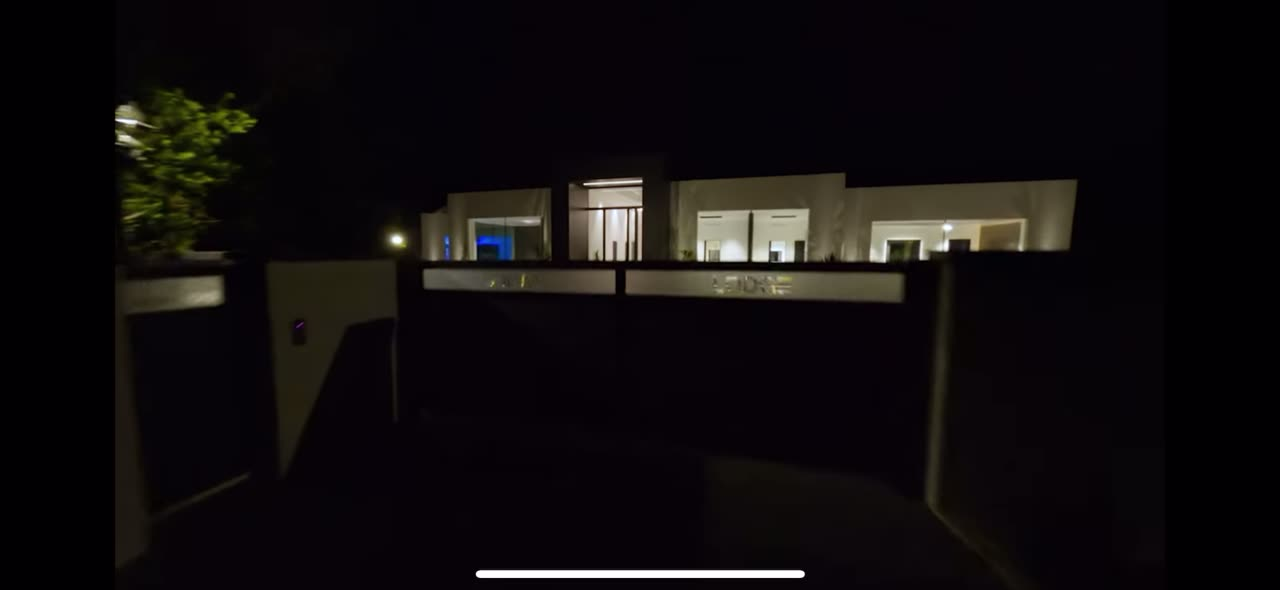
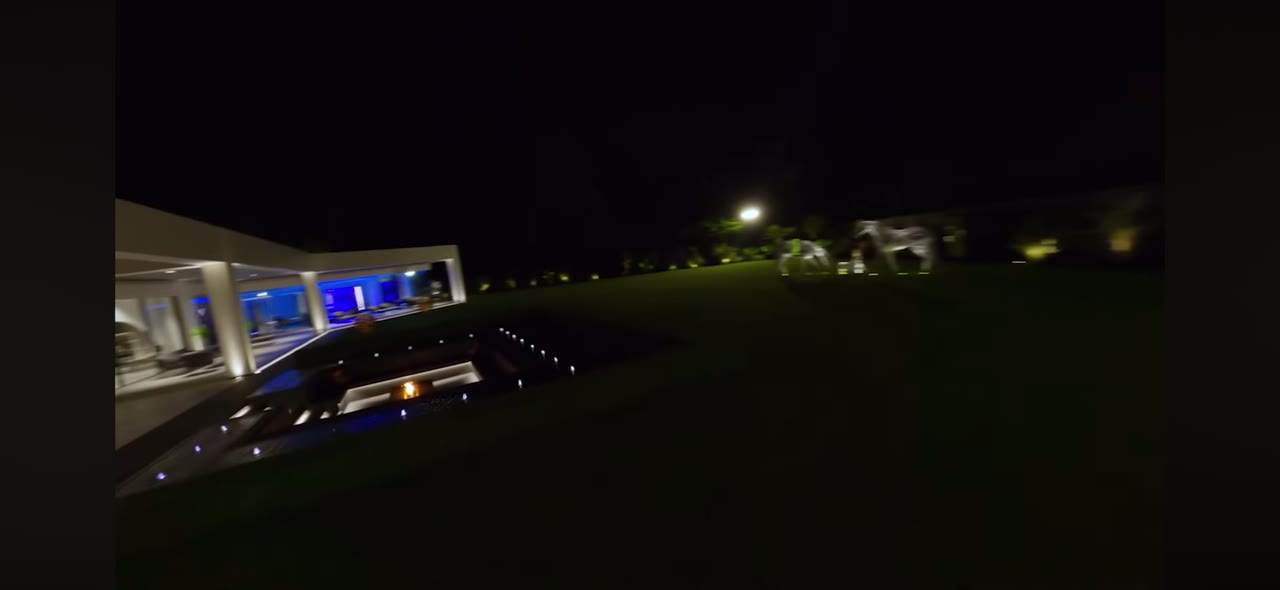
Two full immersive listing sites (Estate mansion + Skyline) with drone hero -> listings/firm/agent/neighborhood/contact; fix mansion poster; RE-tab showcase section

Changed region(s): [[0.0625, 0.1525, 0.9062, 0.8237], [0.375, 0.9458, 0.625, 1.0], [0.7188, 0.5797, 0.75, 0.8847]]

diff --git a/src/components/experience/ExperienceSite.tsx b/src/components/experience/ExperienceSite.tsx
@@ -1,0 +1,112 @@
+import Link from "next/link";
+import type { ExperienceConfig } from "@/content/experiences";
+import { Container } from "@/components/ui/Container";
+import { SectionLabel } from "@/components/ui/SectionLabel";
+import { Reveal } from "@/components/ui/Reveal";
+
+/**
+ * The "rest of the website" that continues below the cinematic drone hero,
+ * turning each experience into a full realtor site (listings, firm, agent,
+ * neighborhood, contact). Dark luxe theme to match the experience.
+ */
+export function ExperienceSite({ config }: { config: ExperienceConfig }) {
+  const s = config.site;
+
+  return (
+    <div className="relative z-10 bg-[#0b0b0e] text-white">
+      {/* Listings */}
+      <section className="border-t border-white/10 py-20 sm:py-28">
+        <Container>
+          <SectionLabel>{s.listingsEyebrow}</SectionLabel>
+          <h2 className="mt-6 max-w-[20ch] text-balance" style={{ fontSize: "var(--text-2xl)" }}>
+            {s.listingsTitle}
+          </h2>
+          <div className="mt-12 grid gap-6 md:grid-cols-3">
+            {s.listings.map((l, i) => (
+              <Reveal key={l.title} delay={i * 70}>
+                <div className="group overflow-hidden rounded-2xl border border-white/10 bg-white/[0.03]">
+                  <div className="aspect-[4/3] overflow-hidden">
+                    {/* eslint-disable-next-line @next/next/no-img-element */}
+                    <img
+                      src={l.img}
+                      alt={l.title}
+                      className="h-full w-full object-cover transition-transform duration-700 group-hover:scale-105"
+                    />
+                  </div>
+                  <div className="p-5">
+                    <div className="font-display text-xl font-semibold">{l.price}</div>
+                    <div className="mt-1 text-sm text-white/80">{l.title}</div>
+                    <div className="mt-2 text-xs uppercase tracking-wider text-white/50">{l.meta}</div>
+                  </div>
+                </div>
+              </Reveal>
+            ))}
+          </div>
+        </Container>
+      </section>
+
+      {/* The firm / agent */}
+      <section className="border-t border-white/10 py-20 sm:py-28">
+        <Container>
+          <div className="grid items-center gap-12 lg:grid-cols-2 lg:gap-16">
+            <Reveal>
+              <div className="overflow-hidden rounded-2xl border border-white/10">
+                {/* eslint-disable-next-line @next/next/no-img-element */}
+                <img src={s.agentImg} alt={s.agentName} className="aspect-[4/3] w-full object-cover" />
+              </div>
+            </Reveal>
+            <Reveal delay={100}>
+              <SectionLabel>{s.aboutEyebrow}</SectionLabel>
+              <h2 className="mt-6 max-w-[16ch] text-balance" style={{ fontSize: "var(--text-xl)" }}>
+                {s.aboutTitle}
+              </h2>
+              <p className="mt-5 max-w-md text-white/70">{s.aboutBody}</p>
+              <div className="mt-7 border-t border-white/10 pt-5">
+                <div className="font-display text-lg font-semibold">{s.agentName}</div>
+                <div className="mt-1 text-sm text-white/55">{s.agentTitle}</div>
+              </div>
+            </Reveal>
+          </div>
+        </Container>
+      </section>
+
+      {/* Neighborhood */}
+      <section
+        className="relative border-t border-white/10 py-28 sm:py-36"
+        style={{
+          backgroundImage: `linear-gradient(180deg, rgba(11,11,14,0.55), rgba(11,11,14,0.85)), url('${s.neighborhoodImg}')`,
+          backgroundSize: "cover",
+          backgroundPosition: "center",
+        }}
+      >
+        <Container>
+          <SectionLabel>The location</SectionLabel>
+          <h2 className="mt-6 max-w-[16ch] text-balance" style={{ fontSize: "var(--text-2xl)" }}>
+            {s.neighborhoodTitle}
+          </h2>
+          <p className="mt-5 max-w-lg text-white/80">{s.neighborhoodBody}</p>
+        </Container>
+      </section>
+
+      {/* Contact CTA */}
+      <section className="border-t border-white/10 py-24 text-center sm:py-32">
+        <Container>
+          <SectionLabel>{s.brand}</SectionLabel>
+          <h2 className="mx-auto mt-6 max-w-[18ch] text-balance" style={{ fontSize: "var(--text-2xl)" }}>
+            {s.contactTitle}
+          </h2>
+          <p className="mx-auto mt-5 max-w-xl text-white/70">{s.contactBody}</p>
+          <Link
+            href={config.ctaHref}
+            className="mt-10 inline-flex items-center gap-2 rounded-full bg-accent px-8 py-4 text-sm font-medium text-white transition-transform hover:-translate-y-0.5"
+          >
+            {config.ctaLabel}
+          </Link>
+          <p className="mt-8 text-xs uppercase tracking-[0.25em] text-white/35">
+            A custom build by Pilk.ai
+          </p>
+        </Container>
+      </section>
+    </div>
+  );
+}

diff --git a/src/content/experiences.ts b/src/content/experiences.ts
@@ -9,6 +9,27 @@ export type ExpScene = {
   cta?: boolean;
 };
 
+export type ExpListing = { title: string; price: string; meta: string; img: string };
+
+export type ExpSite = {
+  brand: string;
+  tagline: string;
+  listingsEyebrow: string;
+  listingsTitle: string;
+  listings: ExpListing[];
+  aboutEyebrow: string;
+  aboutTitle: string;
+  aboutBody: string;
+  agentName: string;
+  agentTitle: string;
+  agentImg: string;
+  neighborhoodTitle: string;
+  neighborhoodBody: string;
+  neighborhoodImg: string;
+  contactTitle: string;
+  contactBody: string;
+};
+
 export type ExperienceConfig = {
   slug: string;
   label: string;
@@ -21,6 +42,7 @@ export type ExperienceConfig = {
   ctaHref: string;
   ctaLabel: string;
   scenes: ExpScene[];
+  site: ExpSite;
 };
 
 export const experiences: Record<string, ExperienceConfig> = {
@@ -42,8 +64,30 @@ export const experiences: Record<string, ExperienceConfig> = {
       { at: 0.48, align: "right", eyebrow: "Features", title: "Infinity pool. Private dock. 180° water.", body: "Floor-to-ceiling glass and resort-grade finishes throughout." },
       { at: 0.62, align: "left", eyebrow: "Your agent", title: "Alexandra Reyes", body: "Luxury specialist with $1.2B+ in career sales — your private guide from first showing to closing." },
       { at: 0.76, align: "right", eyebrow: "The firm", title: "Meridian Estates", body: "Boutique representation, global reach — the name the market's finest listings trust." },
-      { at: 0.9, align: "center", eyebrow: "Offered at $24,500,000", title: "Schedule a private showing.", cta: true },
+      { at: 0.9, align: "center", eyebrow: "Offered at $24,500,000", title: "Keep scrolling to explore the listing.", cta: false },
     ],
+    site: {
+      brand: "Meridian Estates",
+      tagline: "Boutique luxury representation — by private appointment.",
+      listingsEyebrow: "Featured listings",
+      listingsTitle: "A private collection of waterfront estates.",
+      listings: [
+        { title: "20 Bayshore Terrace", price: "$24,500,000", meta: "6 BD · 8 BA · 11,400 SF", img: "/experience/frames/frame-030.jpg" },
+        { title: "The Glass House", price: "$18,900,000", meta: "5 BD · 6 BA · 8,900 SF", img: "/experience/frames/frame-075.jpg" },
+        { title: "Cascade Estate", price: "$31,000,000", meta: "7 BD · 9 BA · 14,200 SF", img: "/experience/frames/frame-120.jpg" },
+      ],
+      aboutEyebrow: "The firm",
+      aboutTitle: "Quietly, the most trusted name in luxury.",
+      aboutBody: "Meridian Estates represents a curated portfolio of the market's most exceptional homes. Discreet, relationship-driven, and relentless on results — we sell the feeling of a property, not just its square footage.",
+      agentName: "Alexandra Reyes",
+      agentTitle: "Founder · Luxury Specialist · $1.2B+ sold",
+      agentImg: "/experience/frames/frame-095.jpg",
+      neighborhoodTitle: "Moments from the marina.",
+      neighborhoodBody: "Minutes to downtown, the best dining, and the water. A world away from everything else.",
+      neighborhoodImg: "/experience/frames/frame-140.jpg",
+      contactTitle: "Arrange a private showing.",
+      contactBody: "Tell us about what you're looking for and we'll arrange a private, no-pressure tour.",
+    },
   },
   skyline: {
     slug: "skyline",
@@ -63,8 +107,30 @@ export const experiences: Record<string, ExperienceConfig> = {
       { at: 0.52, align: "right", eyebrow: "Amenities", title: "A private club, forty floors up.", body: "Sky lounge, spa, pool deck, and residents-only dining." },
       { at: 0.68, align: "left", eyebrow: "The location", title: "The center of everything.", body: "Steps from the waterfront, the best dining, and the business district." },
       { at: 0.82, align: "right", eyebrow: "Represented by", title: "Meridian Residences", body: "Private sales gallery — by appointment only." },
-      { at: 0.93, align: "center", eyebrow: "From $3,900,000", title: "Reserve a private tour.", cta: true },
+      { at: 0.93, align: "center", eyebrow: "From $3,900,000", title: "Keep scrolling to explore the collection.", cta: false },
     ],
+    site: {
+      brand: "Meridian Residences",
+      tagline: "A landmark penthouse collection — now releasing.",
+      listingsEyebrow: "Available residences",
+      listingsTitle: "Full-floor homes above the city.",
+      listings: [
+        { title: "Penthouse 4400", price: "$8,400,000", meta: "5 BD · 6 BA · 6,100 SF", img: "/experience/v1/frames/frame-030.jpg" },
+        { title: "Sky Residence 38A", price: "$5,250,000", meta: "4 BD · 4 BA · 4,400 SF", img: "/experience/v1/frames/frame-075.jpg" },
+        { title: "Tower Residence 31C", price: "$3,900,000", meta: "3 BD · 3 BA · 3,200 SF", img: "/experience/v1/frames/frame-120.jpg" },
+      ],
+      aboutEyebrow: "The development",
+      aboutTitle: "A new landmark on the skyline.",
+      aboutBody: "Meridian Residences is a limited collection of full-floor homes with panoramic views, hotel-grade amenities, and 24/7 concierge — designed for those who want the city at their feet.",
+      agentName: "Meridian Sales Gallery",
+      agentTitle: "Private appointments · Now releasing",
+      agentImg: "/experience/v1/frames/frame-095.jpg",
+      neighborhoodTitle: "The center of everything.",
+      neighborhoodBody: "Steps from the waterfront, the finest dining, and the business district — with the skyline as your backdrop.",
+      neighborhoodImg: "/experience/v1/frames/frame-140.jpg",
+      contactTitle: "Reserve a private tour.",
+      contactBody: "Register your interest and our sales team will arrange a private viewing of the collection.",
+    },
   },
 };
 

diff --git a/src/app/real-estate/page.tsx b/src/app/real-estate/page.tsx
@@ -2,6 +2,7 @@ import type { Metadata } from "next";
 import Link from "next/link";
 import { Suspense } from "react";
 import { templates } from "@/content/templates";
+import { experienceList } from "@/content/experiences";
 import { buildMetadata, faqJsonLd } from "@/lib/metadata";
 import { Container } from "@/components/ui/Container";
 import { Button } from "@/components/ui/Button";
@@ -68,30 +69,40 @@ export default function RealEstatePage() {
 
       <section className="relative z-10 pt-8">
         <Container>
-          <Link
-            href="/real-estate/experience"
-            className="group relative block overflow-hidden rounded-[24px] border border-line"
-            style={{
-              backgroundImage: "linear-gradient(180deg, rgba(0,0,0,0.35), rgba(0,0,0,0.75)), url('/experience/poster.jpg')",
-              backgroundSize: "cover",
-              backgroundPosition: "center",
-            }}
-          >
-            <div className="relative flex flex-col gap-4 p-8 sm:p-14">
-              <span className="eyebrow text-white/80">Interactive listing experience</span>
-              <h2 className="max-w-[18ch] text-balance text-white" style={{ fontSize: "var(--text-2xl)" }}>
-                Imagine your listing like this.
-              </h2>
-              <p className="max-w-xl text-white/80">
-                A fully custom, scroll-driven property site — buyers fly through the home as the
-                details reveal. This is the kind of website we build for listings that need to stand
-                out. Scroll through a live example.
-              </p>
-              <span className="mt-2 inline-flex w-fit items-center gap-2 rounded-full bg-accent px-7 py-3.5 text-sm font-medium text-white transition-transform group-hover:-translate-y-0.5">
-                Launch the experience →
-              </span>
-            </div>
-          </Link>
+          <SectionLabel>Interactive experiences · custom builds</SectionLabel>
+          <h2 className="mt-6 max-w-[22ch] text-balance" style={{ fontSize: "var(--text-2xl)" }}>
+            Full listing sites you fly through as you scroll.
+          </h2>
+          <p className="mt-4 max-w-2xl text-muted">
+            Two live examples of fully custom, scroll-driven listing websites — preview each, then
+            open the full site. This is the top tier of what we build.
+          </p>
+          <div className="mt-10 grid gap-8 md:grid-cols-2">
+            {experienceList.map((e) => (
+              <div
+                key={e.slug}
+                className="group relative overflow-hidden rounded-[24px] border border-line"
+                style={{
+                  backgroundImage: `linear-gradient(180deg, rgba(0,0,0,0.3), rgba(0,0,0,0.82)), url('${e.poster}')`,
+                  backgroundSize: "cover",
+                  backgroundPosition: "center",
+                }}
+              >
+                <Link href={`/real-estate/experience/${e.slug}`} className="block">
+                  <div className="relative flex min-h-[340px] flex-col justify-end gap-3 p-8">
+                    <span className="eyebrow text-white/80">{e.label}</span>
+                    <h3 className="text-balance text-white" style={{ fontSize: "var(--text-xl)" }}>
+                      {e.slug === "estate" ? "Waterfront mansion tour" : "City skyline penthouse"}
+                    </h3>
+                    <p className="max-w-md text-sm text-white/75">{e.blurb}</p>
+                    <span className="mt-2 inline-flex w-fit items-center gap-2 rounded-full bg-accent px-6 py-3 text-sm font-medium text-white transition-transform group-hover:-translate-y-0.5">
+                      Open full site ↗
+                    </span>
+                  </div>
+                </Link>
+              </div>
+            ))}
+          </div>
         </Container>
       </section>
 

diff --git a/src/app/real-estate/experience/[variant]/page.tsx b/src/app/real-estate/experience/[variant]/page.tsx
@@ -6,6 +6,7 @@ import { Container } from "@/components/ui/Container";
 import { Button } from "@/components/ui/Button";
 import { SectionLabel } from "@/components/ui/SectionLabel";
 import { DroneExperience } from "@/components/experience/DroneExperience";
+import { ExperienceSite } from "@/components/experience/ExperienceSite";
 
 export function generateStaticParams() {
   return experienceList.map((e) => ({ variant: e.slug }));
@@ -39,23 +40,22 @@ export default async function ExperienceVariantPage({
     <>
       <DroneExperience config={cfg} />
 
-      <section className="section relative z-10 bg-black">
+      {/* The rest of the full website continues below the cinematic hero */}
+      <ExperienceSite config={cfg} />
+
+      <section className="section relative z-10 bg-[#0b0b0e]">
         <Container className="text-center">
           <SectionLabel>A Pilk.ai custom build</SectionLabel>
-          <h2 className="mx-auto mt-6 max-w-[20ch] text-balance text-white" style={{ fontSize: "var(--text-2xl)" }}>
-            This is what a custom listing site can feel like.
+          <h2 className="mx-auto mt-6 max-w-[22ch] text-balance text-white" style={{ fontSize: "var(--text-xl)" }}>
+            This entire site is a custom build — yours could be too.
           </h2>
-          <p className="mx-auto mt-6 max-w-2xl text-white/70">
-            Cinematic scroll scrubbing, reveal-on-scroll storytelling, and a build engineered to stay
-            smooth. Imagine it built around your property, your brand, and your numbers.
-          </p>
           <div className="mt-10 flex flex-wrap justify-center gap-4">
             <Button href={cfg.ctaHref} variant="primary" withArrow>
               Build something like this
             </Button>
             {other && (
               <Button href={`/real-estate/experience/${other.slug}`} variant="ghost">
-                See &ldquo;{other.label}&rdquo; →
+                See the &ldquo;{other.label}&rdquo; site →
               </Button>
             )}
           </div>